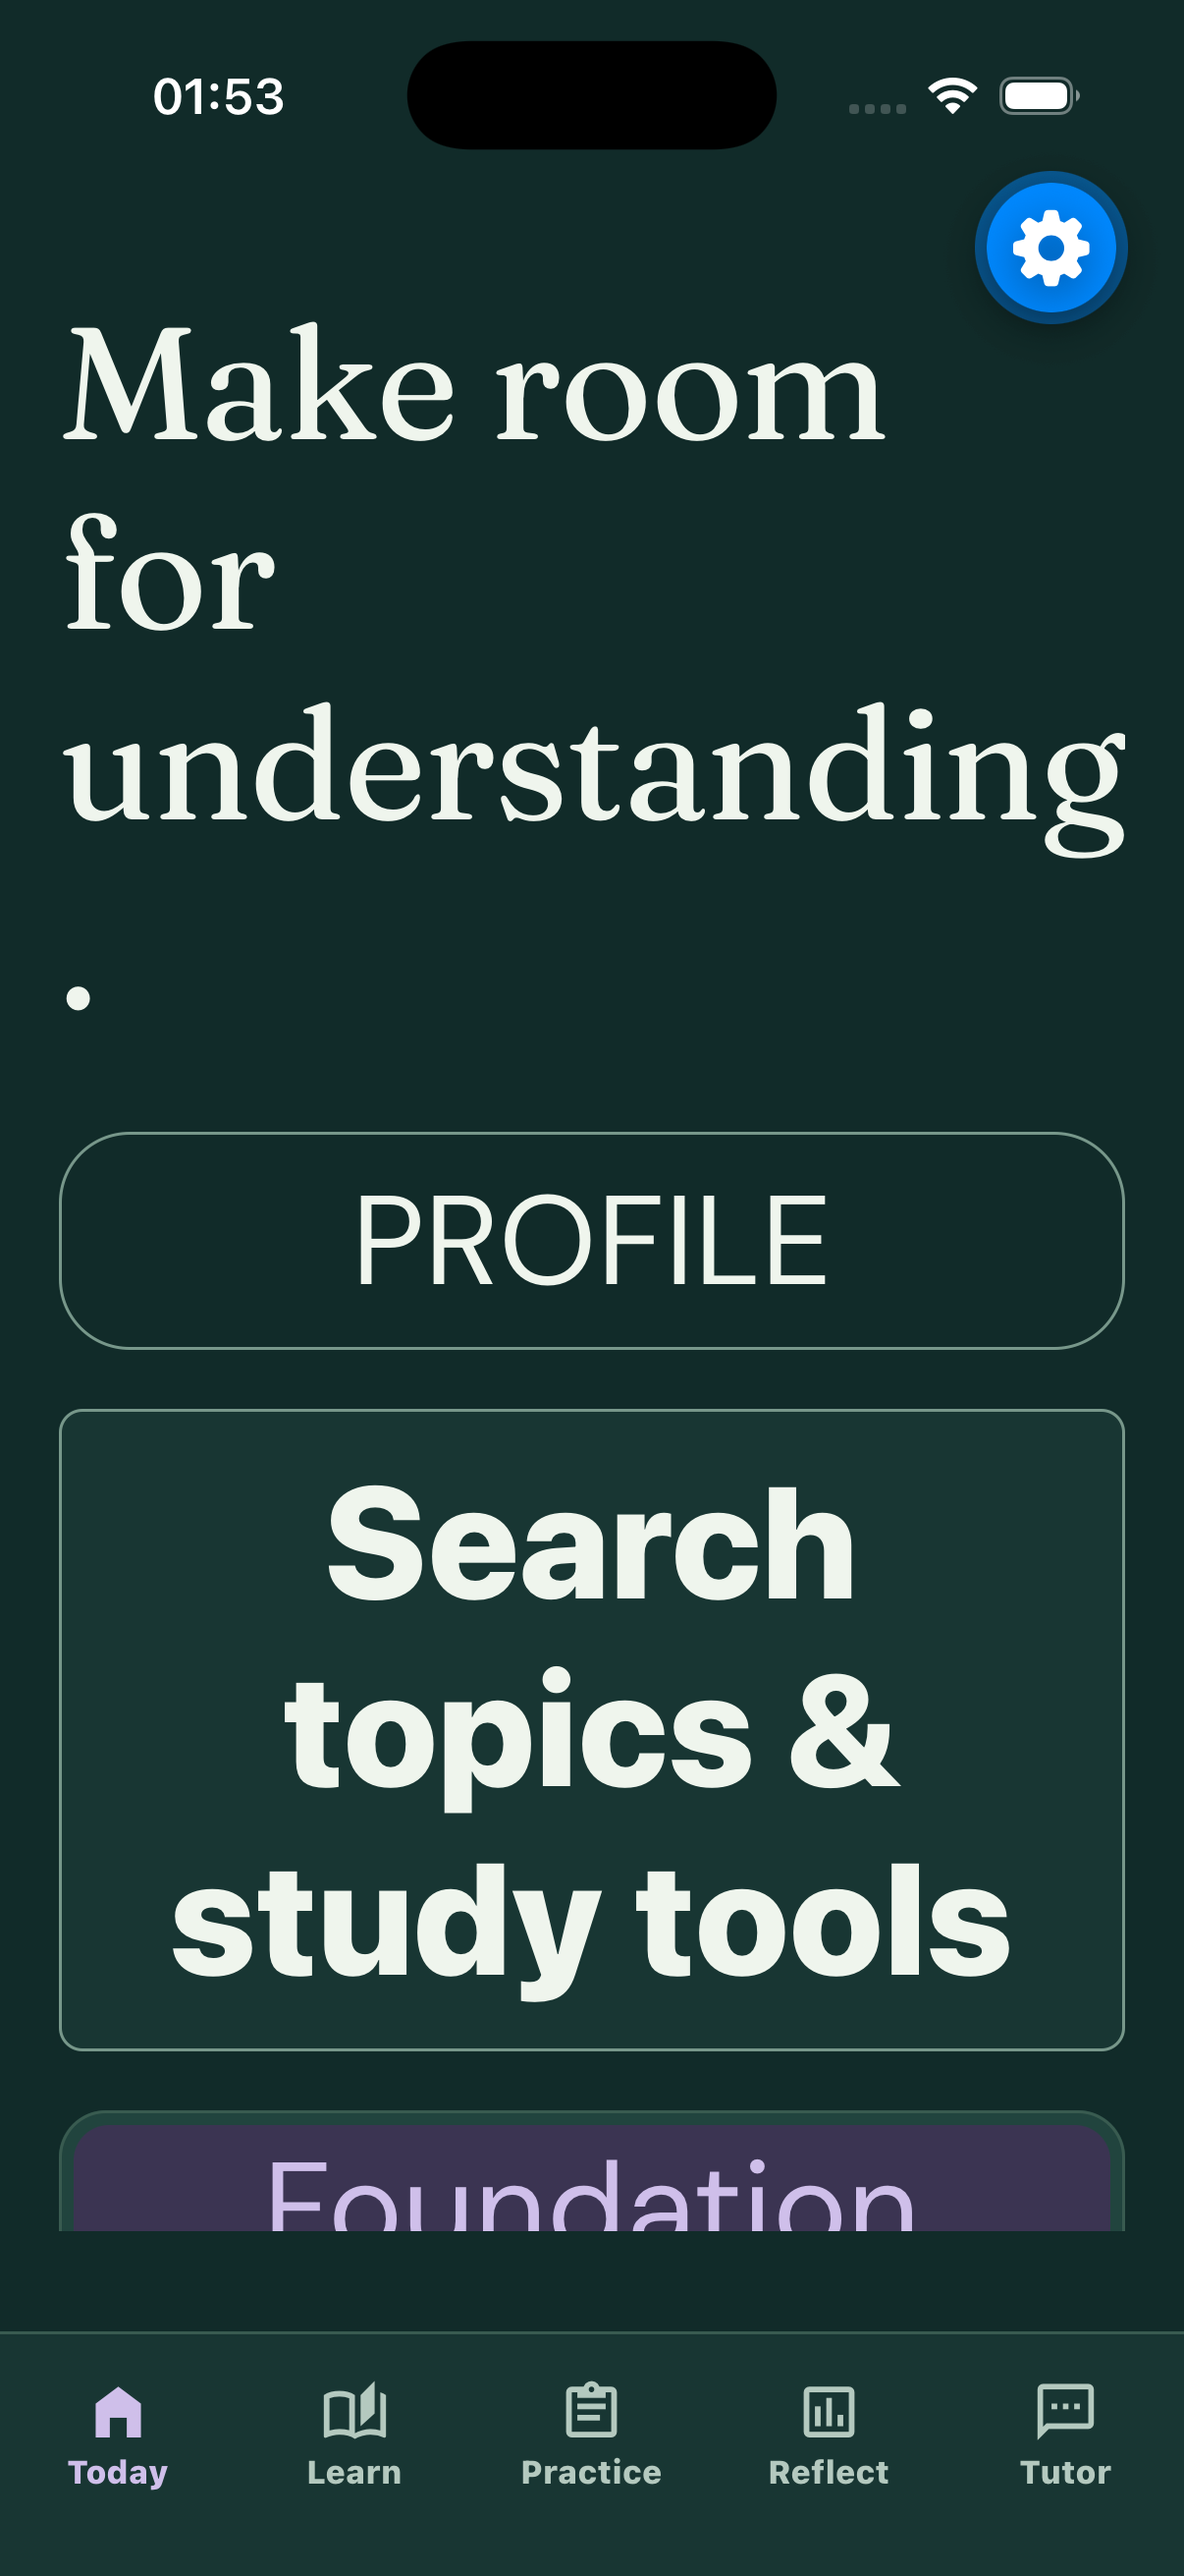
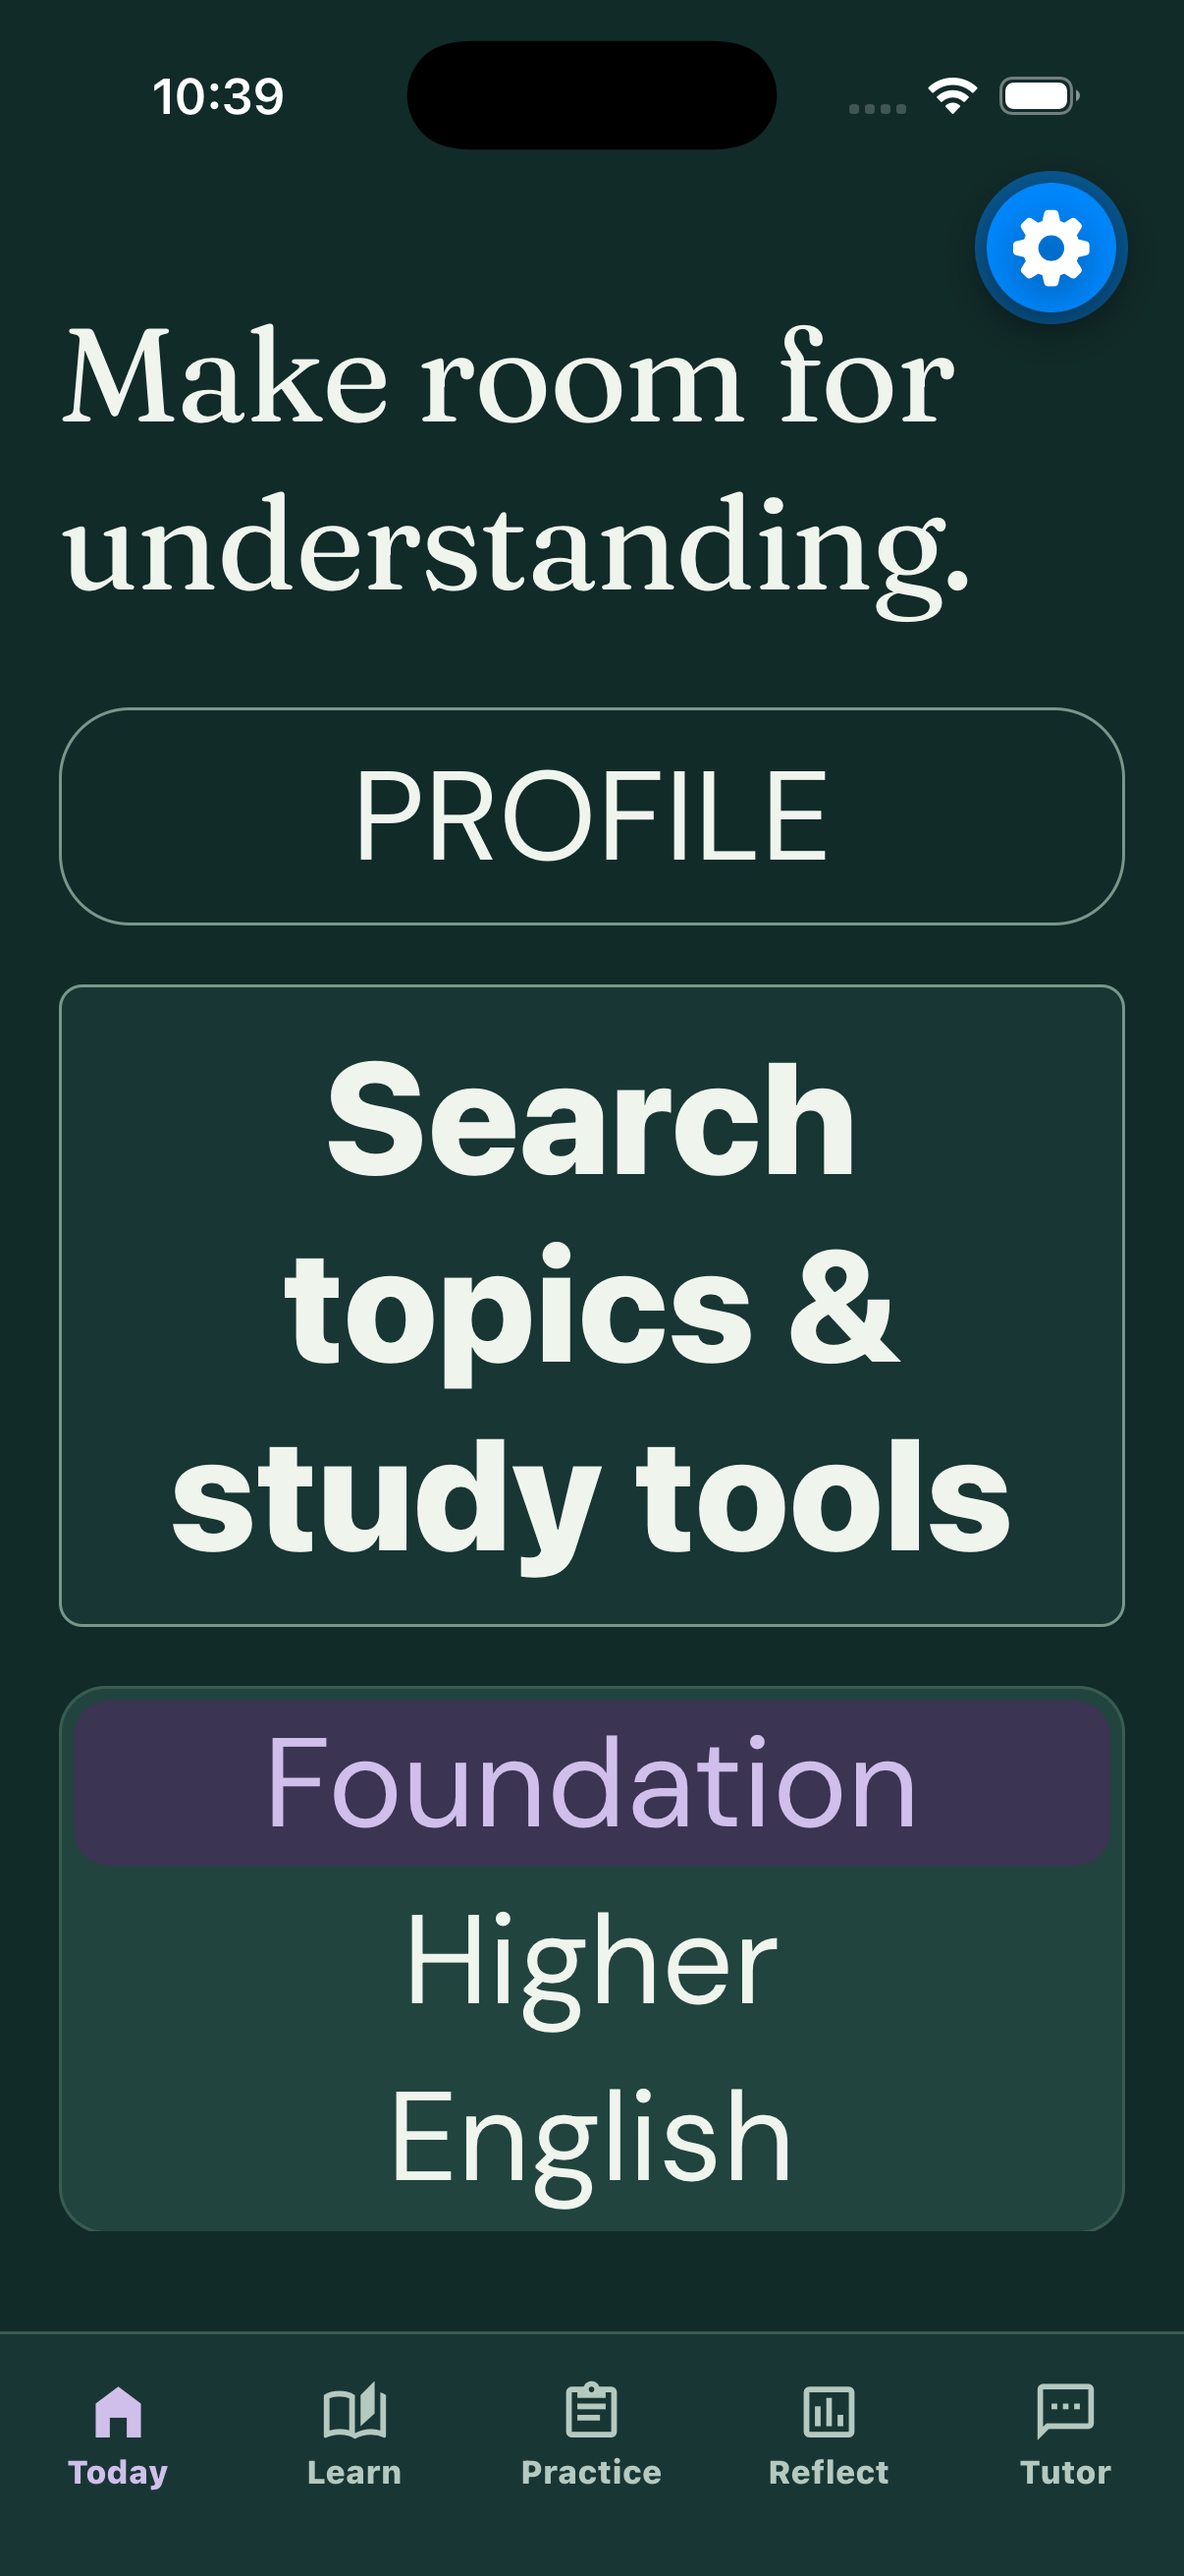
docs: document version 2 architecture, feature coverage and release validation

diff --git a/docs/v2/release-report.md b/docs/v2/release-report.md
@@ -1,0 +1,139 @@
+# GCSE Study Desk 2.0 — implementation and verification
+
+Implementation branch: `2.0`. The production branch and backend schemas are unchanged. This is an implemented frontend generation with local regression evidence, not production launch certification. Remaining release validation and parity limits are explicit below.
+
+## Product architecture
+
+The learning studio organises the product around **Today → Learn → Practice → Reflect → Tutor**. These are shared concepts across browser and native, with a desktop navigation rail, mobile-web bottom navigation, and native tabs.
+
+- **Today** answers what to do next: diagnostic for learners without evidence, a saved daily mission for returning learners, due mistakes, topic suggestions and paper practice. Optional web setup and the week plan expand on demand. Rewards follow useful learning actions.
+- **Learn** is a searchable topic evidence map, separated into curriculum areas. Learners can filter for topics needing attention, topics not practised and strong topics. Lessons connect reading, retrieval and practice without losing authored content or interactive visuals.
+- **Practice** retains the subject-specific paper runners, mixed questions, diagnostics, timers, draft recovery and marking. Focus mode on web reduces surrounding navigation.
+- **Reflect** brings mistakes, scheduled retries, marked papers, weekly summaries and topic evidence together. Detailed web statistics remain available rather than disappearing during navigation changes.
+- **Tutor** retains the real server AI integration, adds contextual explanation prompts on web and uses learner-facing language. Suggestions populate a draft; they do not silently send it.
+
+The audience remains independent AQA GCSE learners, primarily ages 14–16 and resit learners. Foundation, Higher and English retain explicit course context, content, marking and account isolation. Learning claims describe answer evidence; readiness is not a predicted grade.
+
+## Existing features and destinations
+
+The complete preservation register is [feature-audit.md](feature-audit.md), including retain/redesign/merge/relocate decisions and backend flows. It covers public guides, both auth models, account recovery, course selection, preferences, diagnostics, weekly plans, every paper family, mixed questions, drafts, timers, visuals, lessons, sources, tutors, results, mistakes, spaced retries, progress, rewards, offline cache and account controls.
+
+Important retained routes:
+
+| Capability | Web (relative to course basename) | Native |
+|---|---|---|
+| Personal learning home | `/` | Today tab |
+| Topic discovery | `/learn` | Learn tab |
+| Topic lesson and quiz | `/learn/:id` | `/lesson/[id]` |
+| Papers, mixed questions, diagnostic | `/practice` and existing exam routes | Practice tab and existing practice routes |
+| Reflection hub | `/reflect` | Reflect tab |
+| Mistake notebook / due reviews | `/notebook` | `/notebook` |
+| Weekly reflection | `/summary` | `/weekly-summary` |
+| Marked papers | `/results`, existing result routes | `/history`, `/results/[id]` |
+| Detailed subject statistics | `/insights` | Today evidence, Learn map, weekly summary |
+| AI tutor | `/chat` | Tutor tab |
+| English source library | `/texts`, existing text detail routes | Existing text library and `/text/[id]` |
+| Search | `/search`, Ctrl/Cmd+K | `/search` |
+| Profile, goals, appearance, support, logout | `/settings` | `/settings` |
+| Password recovery | Sign-in recovery request and recovery state | `/auth/forgot`, `/auth/recover` |
+
+Course basenames remain `/maths`, `/maths-higher` and `/english`. Public course guides retain their existing SEO addresses. No standalone flashcard authoring or payment/subscription product existed to migrate.
+
+## Added or substantially improved experiences
+
+| Change | Learning purpose |
+|---|---|
+| Action-first home and diagnostic entry | Reduces the decision burden before the first study session. |
+| Evidence map with explicit filters | Helps learners choose where practice is useful; distinguishes lesson completion from answer accuracy. |
+| Retrieval prompts and lesson journey | Encourages recalling an idea before rereading, then testing it. |
+| Shared Reflect destination | Makes incorrect answers and saved feedback useful material for the next session. |
+| Search across topics, tools, English texts and mistake prompts | Makes previously buried material discoverable. It is not exhaustive search of past conversations or all attempts. |
+| Contextual tutor drafts and explanation choices | Makes an explanation specific to the current learning task. |
+| Web focus mode, keyboard search and Escape | Supports concentrated desktop study and efficient navigation. |
+| Native durable attempt history | Lets users reopen server-saved feedback, rather than depending solely on the device's latest result. |
+| Explicit saved preferences and recovery errors | Gives users truthful feedback when their goals or plan cannot be saved. |
+| Web Supabase password recovery | Provides a route back into the same account without relying on native recovery. |
+
+Spaced mistake retries, diagnostics and weekly plans already existed. V2 surfaces and repairs them; it does not claim a new validated adaptive algorithm, confidence-based scheduling or automatic exam-date optimisation.
+
+## Design system
+
+[DESIGN.md](../../DESIGN.md) records the actual system. [direction.md](direction.md) records the product direction. Shared source tokens live in `design-tokens/studio.json`; `node scripts/sync-studio-tokens.mjs` generates web CSS and native TypeScript.
+
+- Separate light and dark green-neutral palettes, with semantic positive, warning, negative and information states.
+- Locally bundled DM Sans and Fraunces with licences. Sans serves reading and controls; serif provides learning invitations.
+- Shared spacing anchors, 8px control and 14px surface radii, restrained borders and flat working surfaces.
+- 120ms/180ms motion guidance and reduced-motion web rules.
+- Shared button, field, navigation, topic, lesson, progress and feedback patterns; loading, empty, error and offline states.
+- Web and native retain platform-specific layouts and some compatibility styles around complex exam content. Native primary actions retain subject accents; web primary actions use teal.
+
+## Accessibility
+
+Changes include visible focus, skip navigation, labelled controls, dialog keyboard behaviour, status/error announcements, named progress indicators, tutor live output, non-colour topic states and large touch controls. Shared targets are 44px web and 48px native. Web responsive behaviour was exercised on desktop, tablet and narrow viewports.
+
+Native large text revealed an overly narrow Today heading. The header and course controls now reflow above the normal font scale; display headings use a limited multiplier while body text continues to scale. The corrected Today heading was inspected at the largest iOS accessibility text setting, and the original text setting restored. This is a focused check, not a claim that every native screen has passed large-text QA.
+
+Automated axe checks pass on eight core web routes in light and dark themes using WCAG 2 A/AA, 2.1 AA and 2.2 AA tags. Automated coverage cannot establish full WCAG 2.2 AA compliance. Actual VoiceOver/TalkBack, native tablet and complete large-text journey testing remain release checks.
+
+## Web/mobile parity
+
+| Core capability | Status |
+|---|---|
+| Same authenticated account, course APIs and stored progress | Shared production account/data model retained. Live cross-device production verification still required. |
+| Lessons, topic practice, diagnostics and papers | Available on both; subject-specific execution retained. |
+| English sources and rubric/self-marking | Available on both. |
+| AI tutor | Available on both; web has the richer new contextual explanation controls. |
+| Mistakes, scheduled reviews and weekly plans | Available on both; new native plans use calendar weeks and preserve valid existing rolling plans. |
+| Saved paper feedback | Web results and new native history use durable attempts. |
+| Topic evidence, weekly reflection and goals | Available on both; desktop statistics and expertise presentation remain richer. |
+| Search and appearance | Available on both, with platform-appropriate navigation. |
+| Exact unfinished answers across devices | **Not supported** by existing draft storage. Durable results/plans sync; exact in-progress answer drafts remain device-local. |
+| Public SEO pages, browser printing and optional web OAuth | Web-specific presentation/integration retained; native password auth remains the primary native route. |
+
+Core study capabilities are present on both platforms. Identical depth of analytics, onboarding and contextual tutor controls is not yet achieved; this report does not label those remaining presentation differences as complete parity.
+
+## Engineering changes
+
+- Shared web V2 shell and feature components replace duplicated navigation and discovery presentation while keeping separate Maths and English runners.
+- Lazy route modules remain in use. Fonts are local, avoiding a runtime font-service dependency.
+- The normal web build now builds Foundation, Higher and English explicitly, fixing stale Higher local output.
+- The shared resource cache now exposes its existing refresh operation so recovery controls work.
+- Web onboarding remains open through preference changes and receives its API dependency correctly.
+- Native readiness uses the same minimum evidence rule as web: 20 marked answers across at least three topics.
+- Native plans use server-confirmed completion dates/topics, preserve current stored plans and avoid overwriting a web calendar plan with a rolling plan.
+- Native settings save explicitly, report errors and guard account/subject identity during asynchronous saves.
+- Native personal hydration failures block plan generation. Retry reloads account data; pull-to-refresh also reapplies personal data. A component regression test proves failed hydration cannot seed/save a replacement.
+- Native results load durable attempts with a guarded local fallback.
+- Existing API routes, Supabase account/storage contracts, production data and deterministic/self-marking fallbacks are preserved. No database migration or backend rewrite was required.
+
+## Tests and evidence
+
+| Check | Result |
+|---|---|
+| Express/server tests | 59 passed |
+| Full Playwright browser suite | 71 passed |
+| Automated accessibility | Eight routes × light/dark passed within browser suite |
+| Native Jest | 81 passed across 19 suites after final recovery fix |
+| Native ESLint / TypeScript | Passed |
+| Web production builds | Foundation, Higher and English passed |
+| Hosting build (`build:vercel`) | Passed locally; no deployment performed |
+| Expo iOS and Android export | Passed; approximately 3.8MB/4.1MB Hermes bundles |
+| iPhone simulator | Today, topic map, Reflect, history and settings inspected; dark theme and largest-text heading checked |
+
+Browser coverage includes local signup/login/logout, invalid credentials, course context, search, settings persistence, onboarding, focus/Escape, topic filters, paper cancellation/expiry/recovery, modal focus, lesson visuals, rewards, today-only mission completion, English quick-fire, sources and responsive layouts. Tests used isolated local server data, not production learner records. The iPhone inspection used its existing session without submitting learner answers or altering account goals.
+
+Screenshots are in [screenshots/](screenshots/), including desktop/mobile web, dark home, native map, native dark home and corrected large-text Today. The visual reviewer found actionable issues in home hierarchy, weekly navigation, save/load recovery and copy; these were addressed. The design detector's Fraunces advisory was retained deliberately because the type pairing is part of the chosen direction, not a correctness failure.
+
+## Remaining release validation and technical debt
+
+1. Verify production signup confirmation, recovery email delivery/redirect allowlists, OAuth, account deletion and Supabase RLS with dedicated test accounts. Local auth and mocked auth tests do not substitute for this.
+2. Run full native learning sessions on Android and an iPad, VoiceOver/TalkBack, enlarged text across all specialist screens and slow/failed network scenarios on devices.
+3. Exact draft continuity needs a backend-supported, versioned draft contract with conflict handling. Do not advertise seamless unfinished-answer handoff yet.
+4. Detailed web analytics, native onboarding and contextual tutor controls need further parity work. Some specialist exam/result/legal surfaces retain compatibility styling rather than a complete component rewrite.
+5. Search is course-local and bounded; it does not index every historical AI explanation or question inside saved attempts. Native results are limited to the existing API retention window.
+6. Native icon fonts contribute to bundle weight. The existing InteractionManager scheduling call emits a deprecation warning; replace it in a focused performance update with measured behaviour.
+7. Formal learner usability research, accessibility certification and learning-outcome evaluation were not performed. Performance has build-level evidence, not real-device field measurements.
+
+## Recommended 2.1 work
+
+Prioritise release device/accessibility validation, then complete analytics/tutor/onboarding presentation parity. Add account-synchronised drafts only with a documented data contract. Evaluate plan recommendations with actual GCSE learners before adding confidence-weighted scheduling or new mastery claims. Measure native font/icon bundle costs and long-list performance before expanding search and visualisation density.
